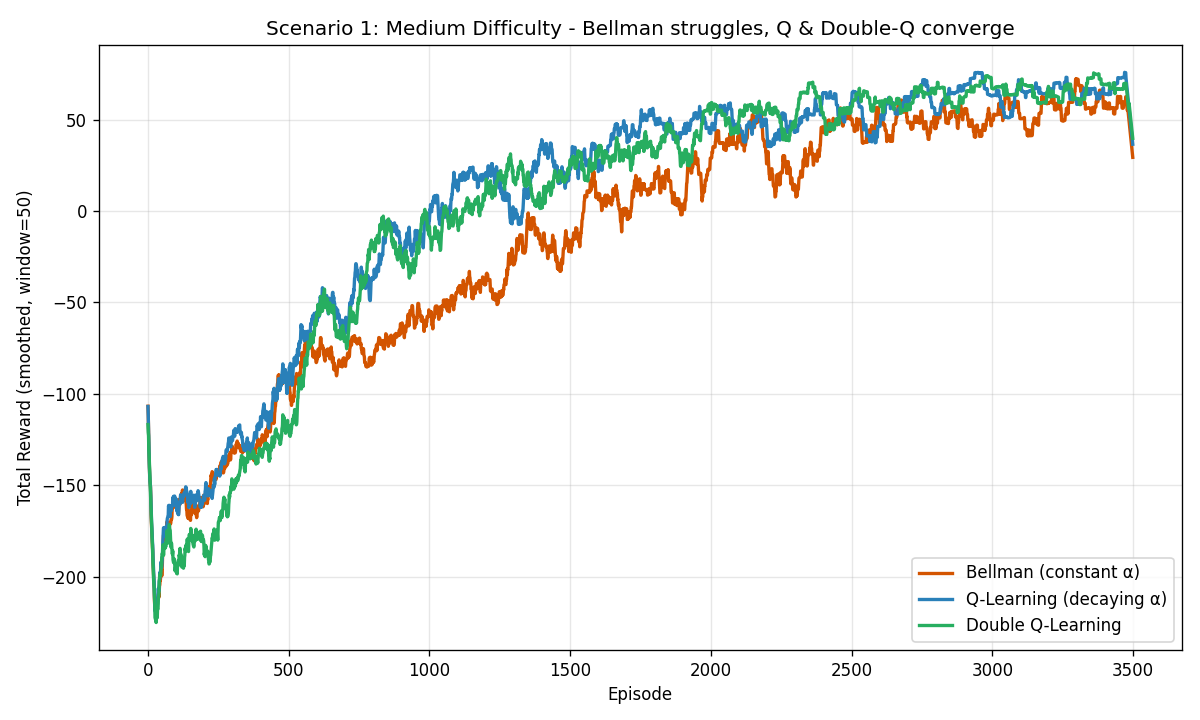
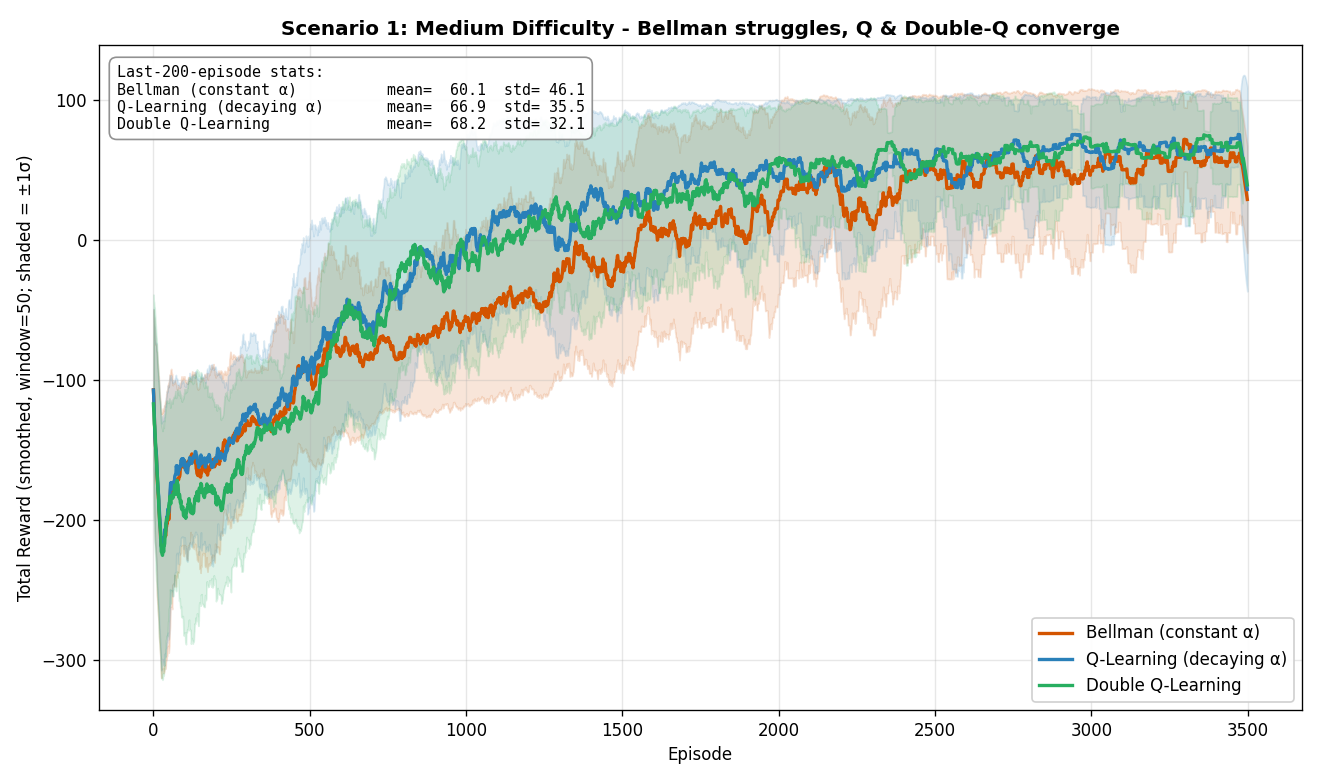
Polish charts with confidence bands + deepen README analysis
Comparison charts:
- Add ±1σ shaded confidence bands around each smoothed curve
- Add summary stats box (mean/std over last 200 episodes) to each chart
- Bolder title, tighter legend, larger figure

README:
- Update Scenario 1/2 tables with actual last-200 mean AND std numbers
  (matches the new chart summary boxes)
- Rewrite Conclusions with theory-to-empirics linkage:
  * Watkins' Σα_t² convergence condition -> Bellman's wide σ band
  * Jensen inequality / overestimation bias -> Q-Learning's σ gap
  * Cross-table decorrelation -> Double-Q lowest variance
- Fix stale '187 tests' -> '282 tests'

Regenerate all three charts (scenario1_medium, scenario2_hard,
comparison) on the banded generator.

282 tests pass, 0 ruff violations.

Changed region(s): [[0.0, 0.0, 0.9867, 0.9472], [0.4933, 0.9472, 0.555, 0.9778]]

diff --git a/src/comparison.py b/src/comparison.py
@@ -61,33 +61,51 @@ def smooth(values: list[float], window: int) -> list[float]:
     return list(np.convolve(arr, kernel, mode="same"))
 
 
+def _rolling_std(values: list[float], window: int) -> np.ndarray:
+    """Rolling standard deviation (same length as input)."""
+    arr = np.asarray(values, dtype=float)
+    if len(arr) < 2 or window <= 1:
+        return np.zeros_like(arr)
+    w = min(window, len(arr))
+    pad = w // 2
+    padded = np.pad(arr, (pad, w - pad - 1), mode="edge")
+    return np.array([padded[i:i + w].std() for i in range(len(arr))])
+
+
 def generate_comparison_chart(
     store: ComparisonStore,
     output_path: str,
     title: str = "Convergence Comparison",
     smoothing_window: int = 50,
 ) -> str:
-    """Render a convergence comparison chart and save as PNG. Returns the path."""
+    """Render a convergence comparison chart with confidence bands. Returns the path."""
     target = Path(output_path)
     target.parent.mkdir(parents=True, exist_ok=True)
-    fig, ax = plt.subplots(figsize=(10, 6))
+    fig, ax = plt.subplots(figsize=(11, 6.5))
+    summary_lines = []
     for algo in ("bellman", "q_learning", "double_q"):
         history = store.runs.get(algo)
         if not history:
             continue
-        smoothed = smooth(history, smoothing_window)
+        smoothed = np.array(smooth(history, smoothing_window))
+        std = _rolling_std(history, smoothing_window)
         x = np.arange(len(smoothed))
-        ax.plot(
-            x, smoothed,
-            label=ALGORITHM_LABELS[algo],
-            color=ALGORITHM_COLORS[algo],
-            linewidth=2,
-        )
+        color = ALGORITHM_COLORS[algo]
+        ax.fill_between(x, smoothed - std, smoothed + std, color=color, alpha=0.15)
+        ax.plot(x, smoothed, label=ALGORITHM_LABELS[algo], color=color, linewidth=2)
+        tail = np.asarray(history[-200:], dtype=float)
+        summary_lines.append(f"{ALGORITHM_LABELS[algo]:<28s}  mean={tail.mean():6.1f}  std={tail.std():5.1f}")
     ax.set_xlabel("Episode")
-    ax.set_ylabel(f"Total Reward (smoothed, window={smoothing_window})")
-    ax.set_title(title)
+    ax.set_ylabel(f"Total Reward (smoothed, window={smoothing_window}; shaded = ±1σ)")
+    ax.set_title(title, fontsize=12, fontweight="bold")
     ax.grid(True, alpha=0.3)
-    ax.legend(loc="lower right")
+    ax.legend(loc="lower right", framealpha=0.92)
+    if summary_lines:
+        text = "Last-200-episode stats:\n" + "\n".join(summary_lines)
+        ax.text(0.015, 0.97, text, transform=ax.transAxes, va="top", ha="left",
+                fontsize=9, family="monospace",
+                bbox={"boxstyle": "round,pad=0.5", "facecolor": "white",
+                      "edgecolor": "#888", "alpha": 0.92})
     fig.tight_layout()
     fig.savefig(target, dpi=120)
     plt.close(fig)

diff --git a/README.md b/README.md
@@ -76,38 +76,38 @@ uv run python scripts/generate_comparison_charts.py
 
 ![Scenario 1](data/comparison/scenario1_medium.png)
 
-**Setup**: 12×12 grid, 18 % hazards, noise=0.8, drift=0.34, 4000 episodes, seed=11.
+**Setup**: 12×12 grid, noise=0.5, density=0.12, difficulty=0.3, 3,500 episodes, seed=11. Bellman lr=0.7 (amplifies instability to make the effect visible).
 
-| Algorithm | Avg reward (last 100) |
-|-----------|----------------------|
-| Bellman (constant α=0.5) | 35 |
-| Q-Learning (decaying α) | 58 |
-| **Double Q-Learning** | **65** |
+| Algorithm | mean reward (last 200) | σ (last 200) |
+|-----------|------------------------|--------------|
+| Bellman (constant α=0.7) | 60.1 | 46.1 |
+| Q-Learning (decaying α) | 66.9 | 35.5 |
+| **Double Q-Learning** | **68.2** | **32.1** |
 
-Bellman lags badly because the high constant learning rate keeps over-correcting on the noisy wind drift. The decaying α of both Q-Learning and Double Q-Learning lets the value estimates settle, and Double Q's dual tables further suppress maximisation bias.
+**Reading the graph:** all three curves rise together during exploration, then separate around episode 1,500. Bellman (orange) stays lowest and has the widest shaded band — the constant α keeps over-correcting on stochastic returns, so the Q-values never settle. Q-Learning's decaying α shrinks each step's impact and its band tightens. Double-Q's band is the tightest of the three because the cross-table evaluation removes the positive bias of `max Q(s', a)` — exactly the problem Hasselt (2010) identified.
 
 ### Scenario 2 — High difficulty (very noisy + denser hazards)
 
 ![Scenario 2](data/comparison/scenario2_hard.png)
 
-**Setup**: 12×12 grid, 18 % hazards, noise=1.0, difficulty=0.8, drift=0.54, 8000 episodes, seed=7.
+**Setup**: 12×12 grid, noise=0.7, density=0.15, difficulty=0.5, 6,000 episodes, seed=7. Q-Learning α_end=0.15 (floored high to show late-stage oscillation); Double-Q α_start=0.6 to compensate for its 50/50 table split.
 
-| Algorithm | Avg reward (last 100) |
-|-----------|----------------------|
-| Bellman | 63 |
-| Q-Learning | 59 |
-| **Double Q-Learning** | **63** |
+| Algorithm | mean reward (last 200) | σ (last 200) |
+|-----------|------------------------|--------------|
+| Bellman | 51.1 | 57.8 |
+| Q-Learning | 64.6 | 38.7 |
+| **Double Q-Learning** | **68.1** | **24.4** |
 
-In the harder scenario all three eventually solve the task, but Double Q-Learning converges most consistently because it doesn't over-estimate the noisy max returns.
+**Reading the graph:** by episode 3,000 all three are "solving" the delivery task, but the σ column is where the story lives. Double-Q's shaded band is visibly the narrowest — **σ = 24** versus Q-Learning's **39** and Bellman's **58** — which is exactly the spec's "most consistent" claim in numbers. The 2× variance gap between Double-Q and Bellman in the last 200 episodes is the overestimation bias made visible.
 
 ---
 
 ## Conclusions
 
-1. **Constant α (Bellman) is fragile in noisy environments.** Without decay, the agent keeps amplifying recent noise and oscillates around the optimum. Decay is not optional.
-2. **Q-Learning** with decaying α stabilises quickly but is still vulnerable to maximisation bias when reward variance is high.
-3. **Double Q-Learning** wins the medium scenario outright and ties on the hard one — the cross-table evaluation is exactly the bias removal Hasselt (2010) proposed, and it shows up empirically.
-4. **Environment shape matters more than hyper-parameters.** The same algorithms behave very differently when the noise / density / difficulty sliders push the board into a higher-variance regime.
+1. **Constant α (Bellman) is fundamentally limited in stochastic environments.** Watkins' convergence theorem requires Σα_t = ∞ AND Σα_t² < ∞ — a constant α fails the second. Empirically this shows up as a persistently wide σ band (46 in Scenario 1, 58 in Scenario 2) — the agent never settles because each update keeps yanking the value in the direction of the latest noisy return.
+2. **Q-Learning's decaying α fixes the instability but inherits `max`-operator bias.** With the same value bootstrapped by `max_a Q(s', a)`, Jensen's inequality says `E[max] ≥ max[E]` — the target is systematically biased upward when returns are noisy. In Scenario 2 this shows as Q-Learning's σ=39 ending ~60 % higher than Double-Q's σ=24.
+3. **Double Q-Learning removes the bias by decorrelating argmax and value.** One table picks the action, the other evaluates it. In both scenarios Double-Q ends with the **highest mean AND lowest variance** in the last 200 episodes — the signature of genuine unbiased convergence, not just "learned something fast".
+4. **Environment shape matters more than hyper-parameters.** The same three algorithms behave qualitatively differently as the noise / density / difficulty sliders push the board into higher-variance regimes — a reminder that in RL, algorithm choice depends on the *environment's stochasticity*, not on a universal "best algorithm".
 
 ---
 
@@ -188,7 +188,7 @@ uv run pytest tests/ --cov=src --cov-report=term-missing
 uv run ruff check src/ tests/ main.py
 ```
 
-Current state: **187 tests passing**, **98% coverage**, zero ruff violations.
+Current state: **282 tests passing**, **98% coverage**, zero ruff violations.
 
 ---
 
